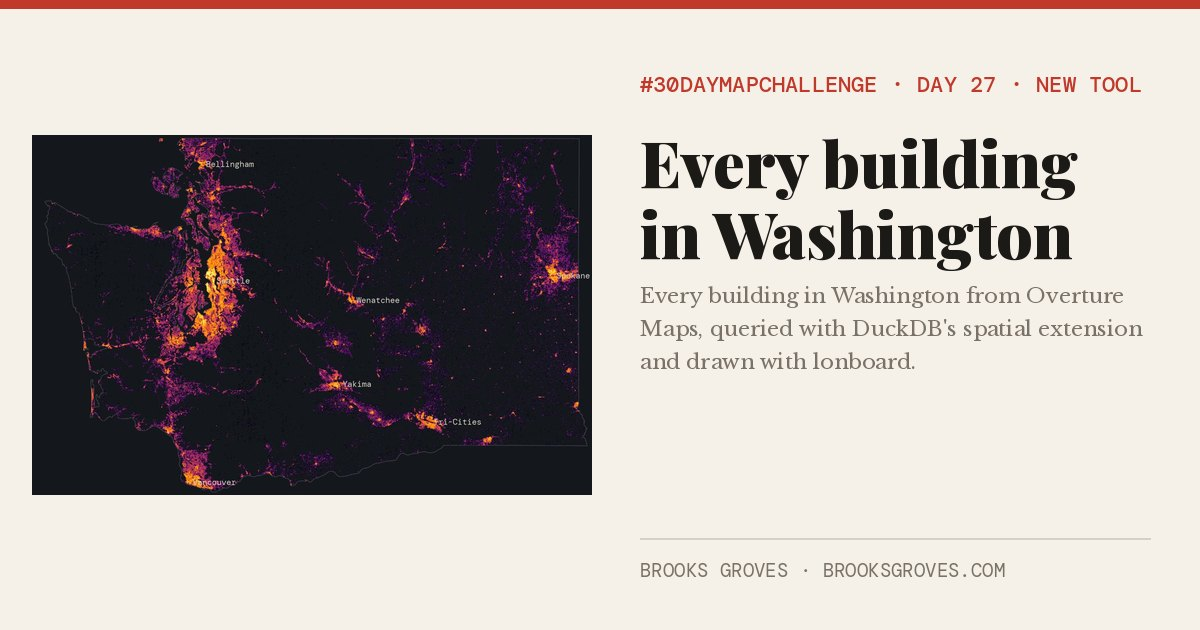
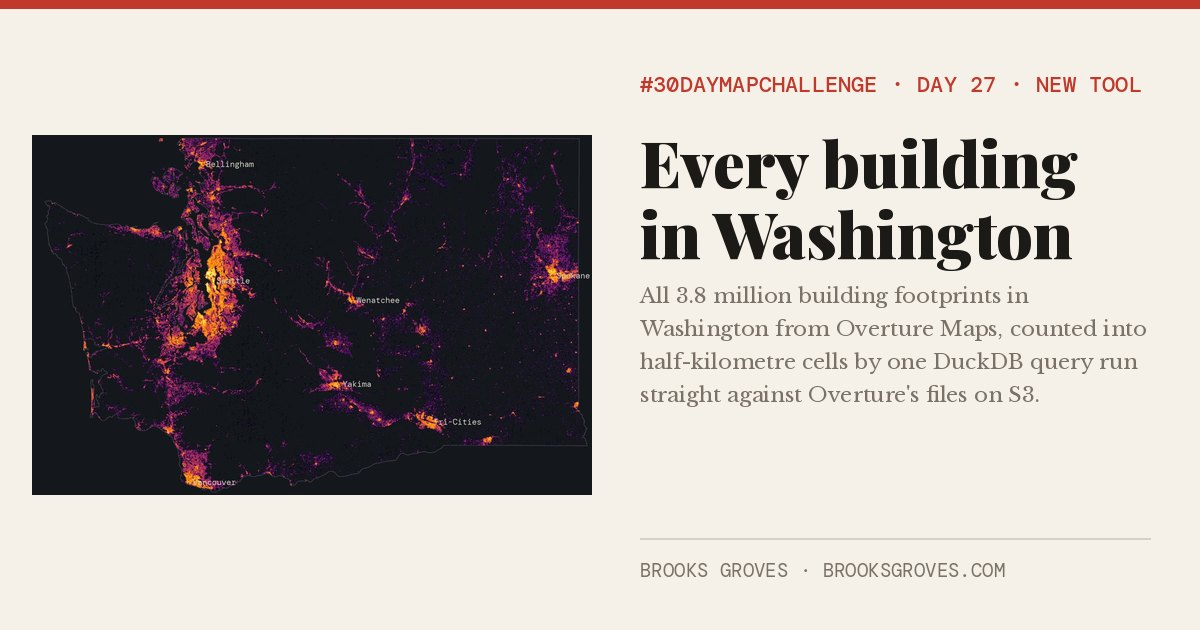
Days 19-28: pitches match the maps, label and scalebar fixes
Day 19 pitch uses the map's first-smell categories (and HopLove, not HopLore).
Day 27 drops lonboard from the pitch and hashtags until the interactive exists.
Day 20 scalebar off the Yucatan, Day 26 target label clear of the bars,
Day 27 city labels haloed, Day 28 Lakewood label clear of the epicentre star.

Claude-Session: https://claude.ai/code/session_01XT8v9DF68cFLbibUaHUWWu

Changed region(s): [[0.5242, 0.4524, 0.9558, 0.6635]]

diff --git a/2026/day-27-new-tool/make.py b/2026/day-27-new-tool/make.py
@@ -103,7 +103,9 @@ ax.set_aspect(1 / np.cos(np.radians(47.3)))
 for name, lon, lat in [("Seattle", -122.33, 47.61), ("Spokane", -117.43, 47.66), ("Yakima", -120.51, 46.60),
                        ("Tri-Cities", -119.2, 46.23), ("Bellingham", -122.48, 48.75), ("Wenatchee", -120.31, 47.42),
                        ("Vancouver", -122.67, 45.64)]:
-    ax.text(lon + 0.07, lat, name, family=dmc.MONO, size=7, color=dmc.MIST, va="center", zorder=3)
+    ax.text(lon + 0.07, lat, name, family=dmc.MONO, size=7, color=dmc.MIST, va="center", zorder=3,
+            path_effects=[__import__("matplotlib.patheffects").patheffects.withStroke(linewidth=2.5,
+                                                                                       foreground=dmc.NIGHT)])
 
 # where the footprints came from
 NICE = {"OpenStreetMap": "OpenStreetMap volunteers", "Microsoft ML Buildings": "Microsoft, machine-learned",

diff --git a/2026/day-26-water/make.py b/2026/day-26-water/make.py
@@ -138,8 +138,8 @@ cm = LAKE
 for y, row in yr.iterrows():
     cax.bar(y, row["mean"], width=0.78, bottom=0, color=cm(min(row["mean"], 34) / 34 * 0.55 + 0.1), lw=0)
 cax.axhline(TARGET_M, color=dmc.LAVA, lw=0.9, ls=(0, (4, 2)))
-cax.text(yr.index.min(), TARGET_M + 0.6, f"Target: {TARGET_M:g} m, the 1967–71 average", family=dmc.MONO, size=6.2,
-         color=dmc.LAVA, va="top")
+cax.text(yr.index.max(), TARGET_M - 0.5, f"Target: {TARGET_M:g} m,\nthe 1967–71 average", family=dmc.MONO, size=6.2,
+         color=dmc.LAVA, va="bottom", ha="right")
 cax.set_ylim(36, 0)                                # surface at the top, deeper below
 cax.set_xlim(yr.index.min() - 1, yr.index.max() + 1)
 cax.axhline(0, color=dmc.LAKE, lw=1.2)

diff --git a/2026/day-28-feeling/make.py b/2026/day-28-feeling/make.py
@@ -123,7 +123,7 @@ for name, (x, y) in cities.items():
     p = gpd.GeoSeries([Point(x, y)], crs=4326).to_crs(CRS).iloc[0]
     if frame_box[0] < p.x < frame_box[2] and frame_box[1] < p.y < frame_box[3]:
         ax.scatter([p.x], [p.y], s=7, color=dmc.INK, zorder=4)
-        dx, dy, ha = {"Lakewood": (-8000, 9000, "right"), "Olympia": (-7000, -3000, "right"),
+        dx, dy, ha = {"Lakewood": (-6000, 16000, "right"), "Olympia": (-7000, -3000, "right"),
                       "Vancouver": (-7000, 0, "right")}.get(name, (7000, 0, "left"))
         dmc.label(ax, p.x + dx, p.y + dy, name, size=7.5, ha=ha, va="center")
 

diff --git a/2026/day-20-hexagons/make.py b/2026/day-20-hexagons/make.py
@@ -145,7 +145,7 @@ ax.set_aspect("equal")
 gpt = gpd.GeoSeries(gpd.points_from_xy([-116.87], [36.46]), crs=4326).to_crs(CRS).iloc[0]   # Furnace Creek
 dmc.label(ax, gpt.x + 60000, gpt.y - 40000, "Death Valley", size=7.5, style="italic", zorder=5)
 ax.scatter([gpt.x], [gpt.y], s=10, color=dmc.INK, zorder=5)
-dmc.scalebar(ax, 500, loc=(0.78, 0.05))
+dmc.scalebar(ax, 500, loc=(0.05, 0.05))
 
 lx = fig.add_axes((0.08, 0.135, 0.26, 0.016))
 grad = np.linspace(0, 1, 256)[None, :]

diff --git a/2026/day-27-new-tool/README.md b/2026/day-27-new-tool/README.md
@@ -5,22 +5,22 @@
 
 ## Every building in Washington
 
-Every building in Washington from Overture Maps, queried with DuckDB's spatial extension and drawn with lonboard. Both new to me.
+All 3.8 million building footprints in Washington from Overture Maps, counted into half-kilometre cells by one DuckDB query run straight against Overture's files on S3. New to me.
 
 **Data**
 
 - [Overture Maps buildings](https://overturemaps.org/)
 
-**Tools:** DuckDB spatial, lonboard
+**Tools:** DuckDB spatial
 
-**Prep:** Drafted: DuckDB query straight against Overture on S3, gridded. Still to do: the lonboard interactive.
+**Prep:** Drafted: DuckDB query straight against Overture on S3, gridded. A lonboard interactive could follow; the still stands on its own.
 
 **Post it** (X, Bluesky, LinkedIn: paste this, the link shows the map card)
 
 ```
 Day 27 of #30DayMapChallenge · New tool
 Every building in Washington
-#lonboard #Python
+#DuckDB #OvertureMaps
 https://brooksgroves.com/30DayMapChallenge/2026/share/day-27.html
 ```
 

diff --git a/2026/day-19-smell/README.md b/2026/day-19-smell/README.md
@@ -5,7 +5,7 @@
 
 ## What the Yakima Valley smells like
 
-Washington's hop acreage by variety, coloured by aroma (citrus, pine, tropical, earthy) from HopLore.
+Washington's hop fields, and its hop acreage sorted by the first smell HopLove lists for each variety: tropical fruit, citrus, resin, spice, berry and more.
 
 **Data**
 
